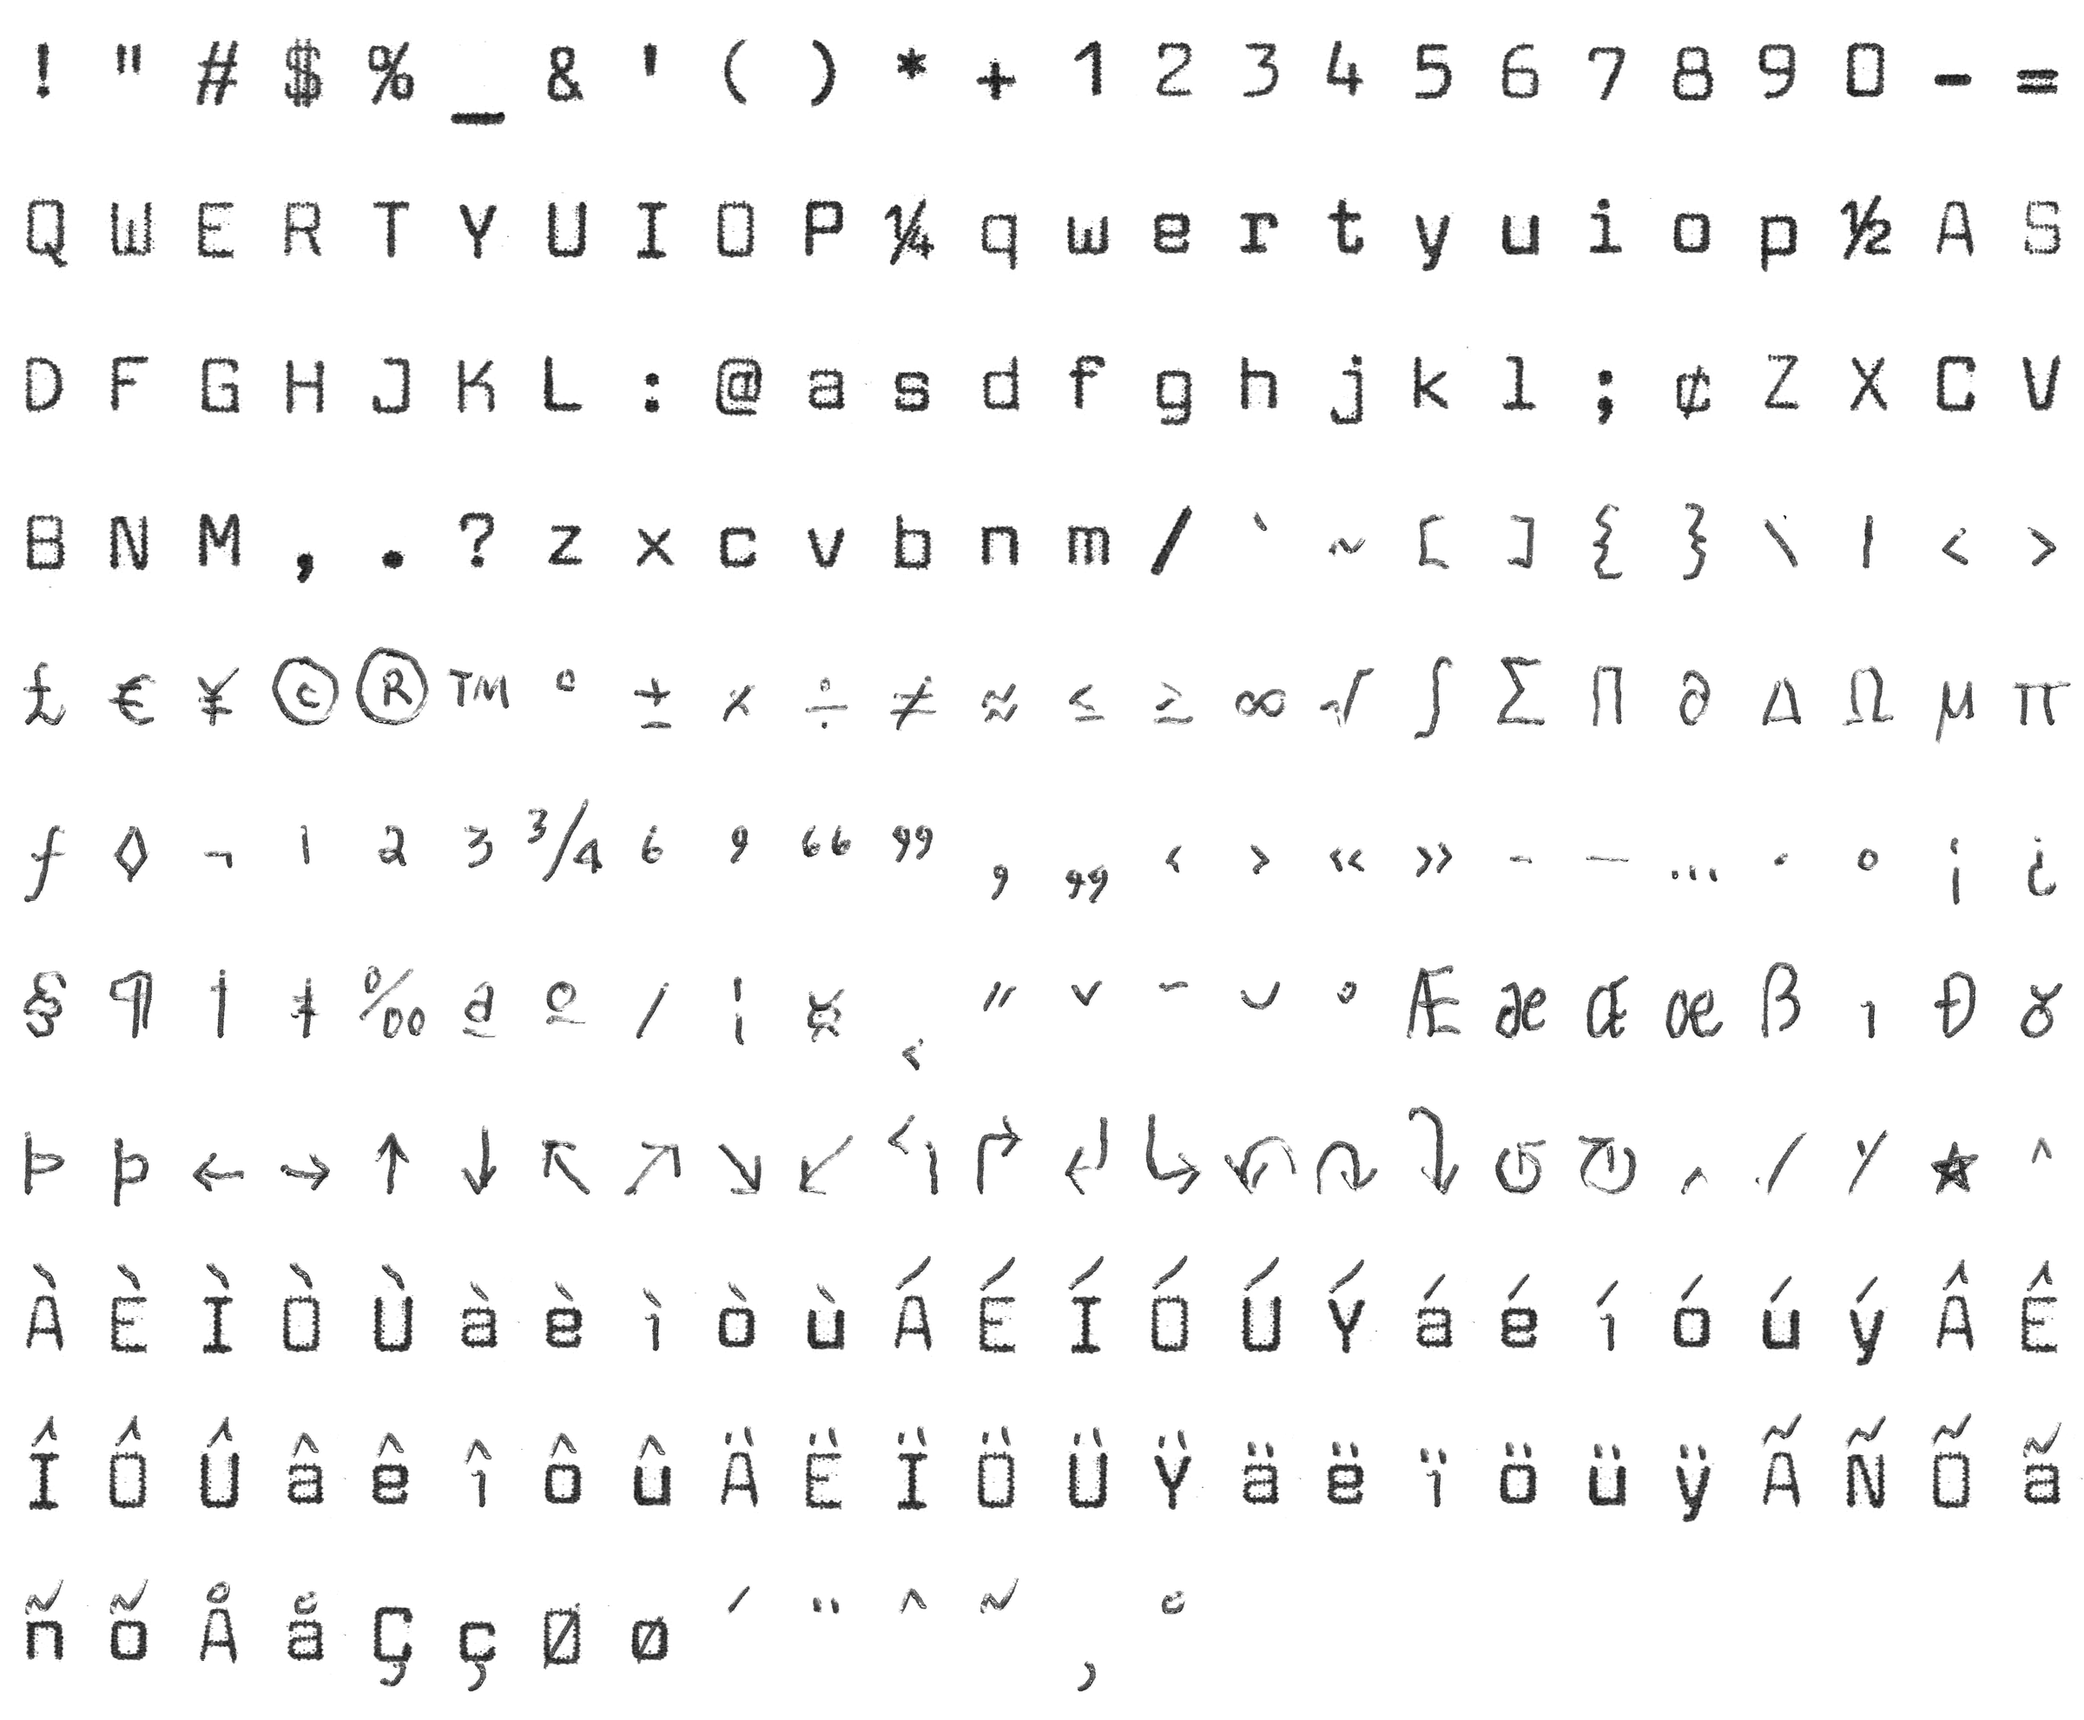
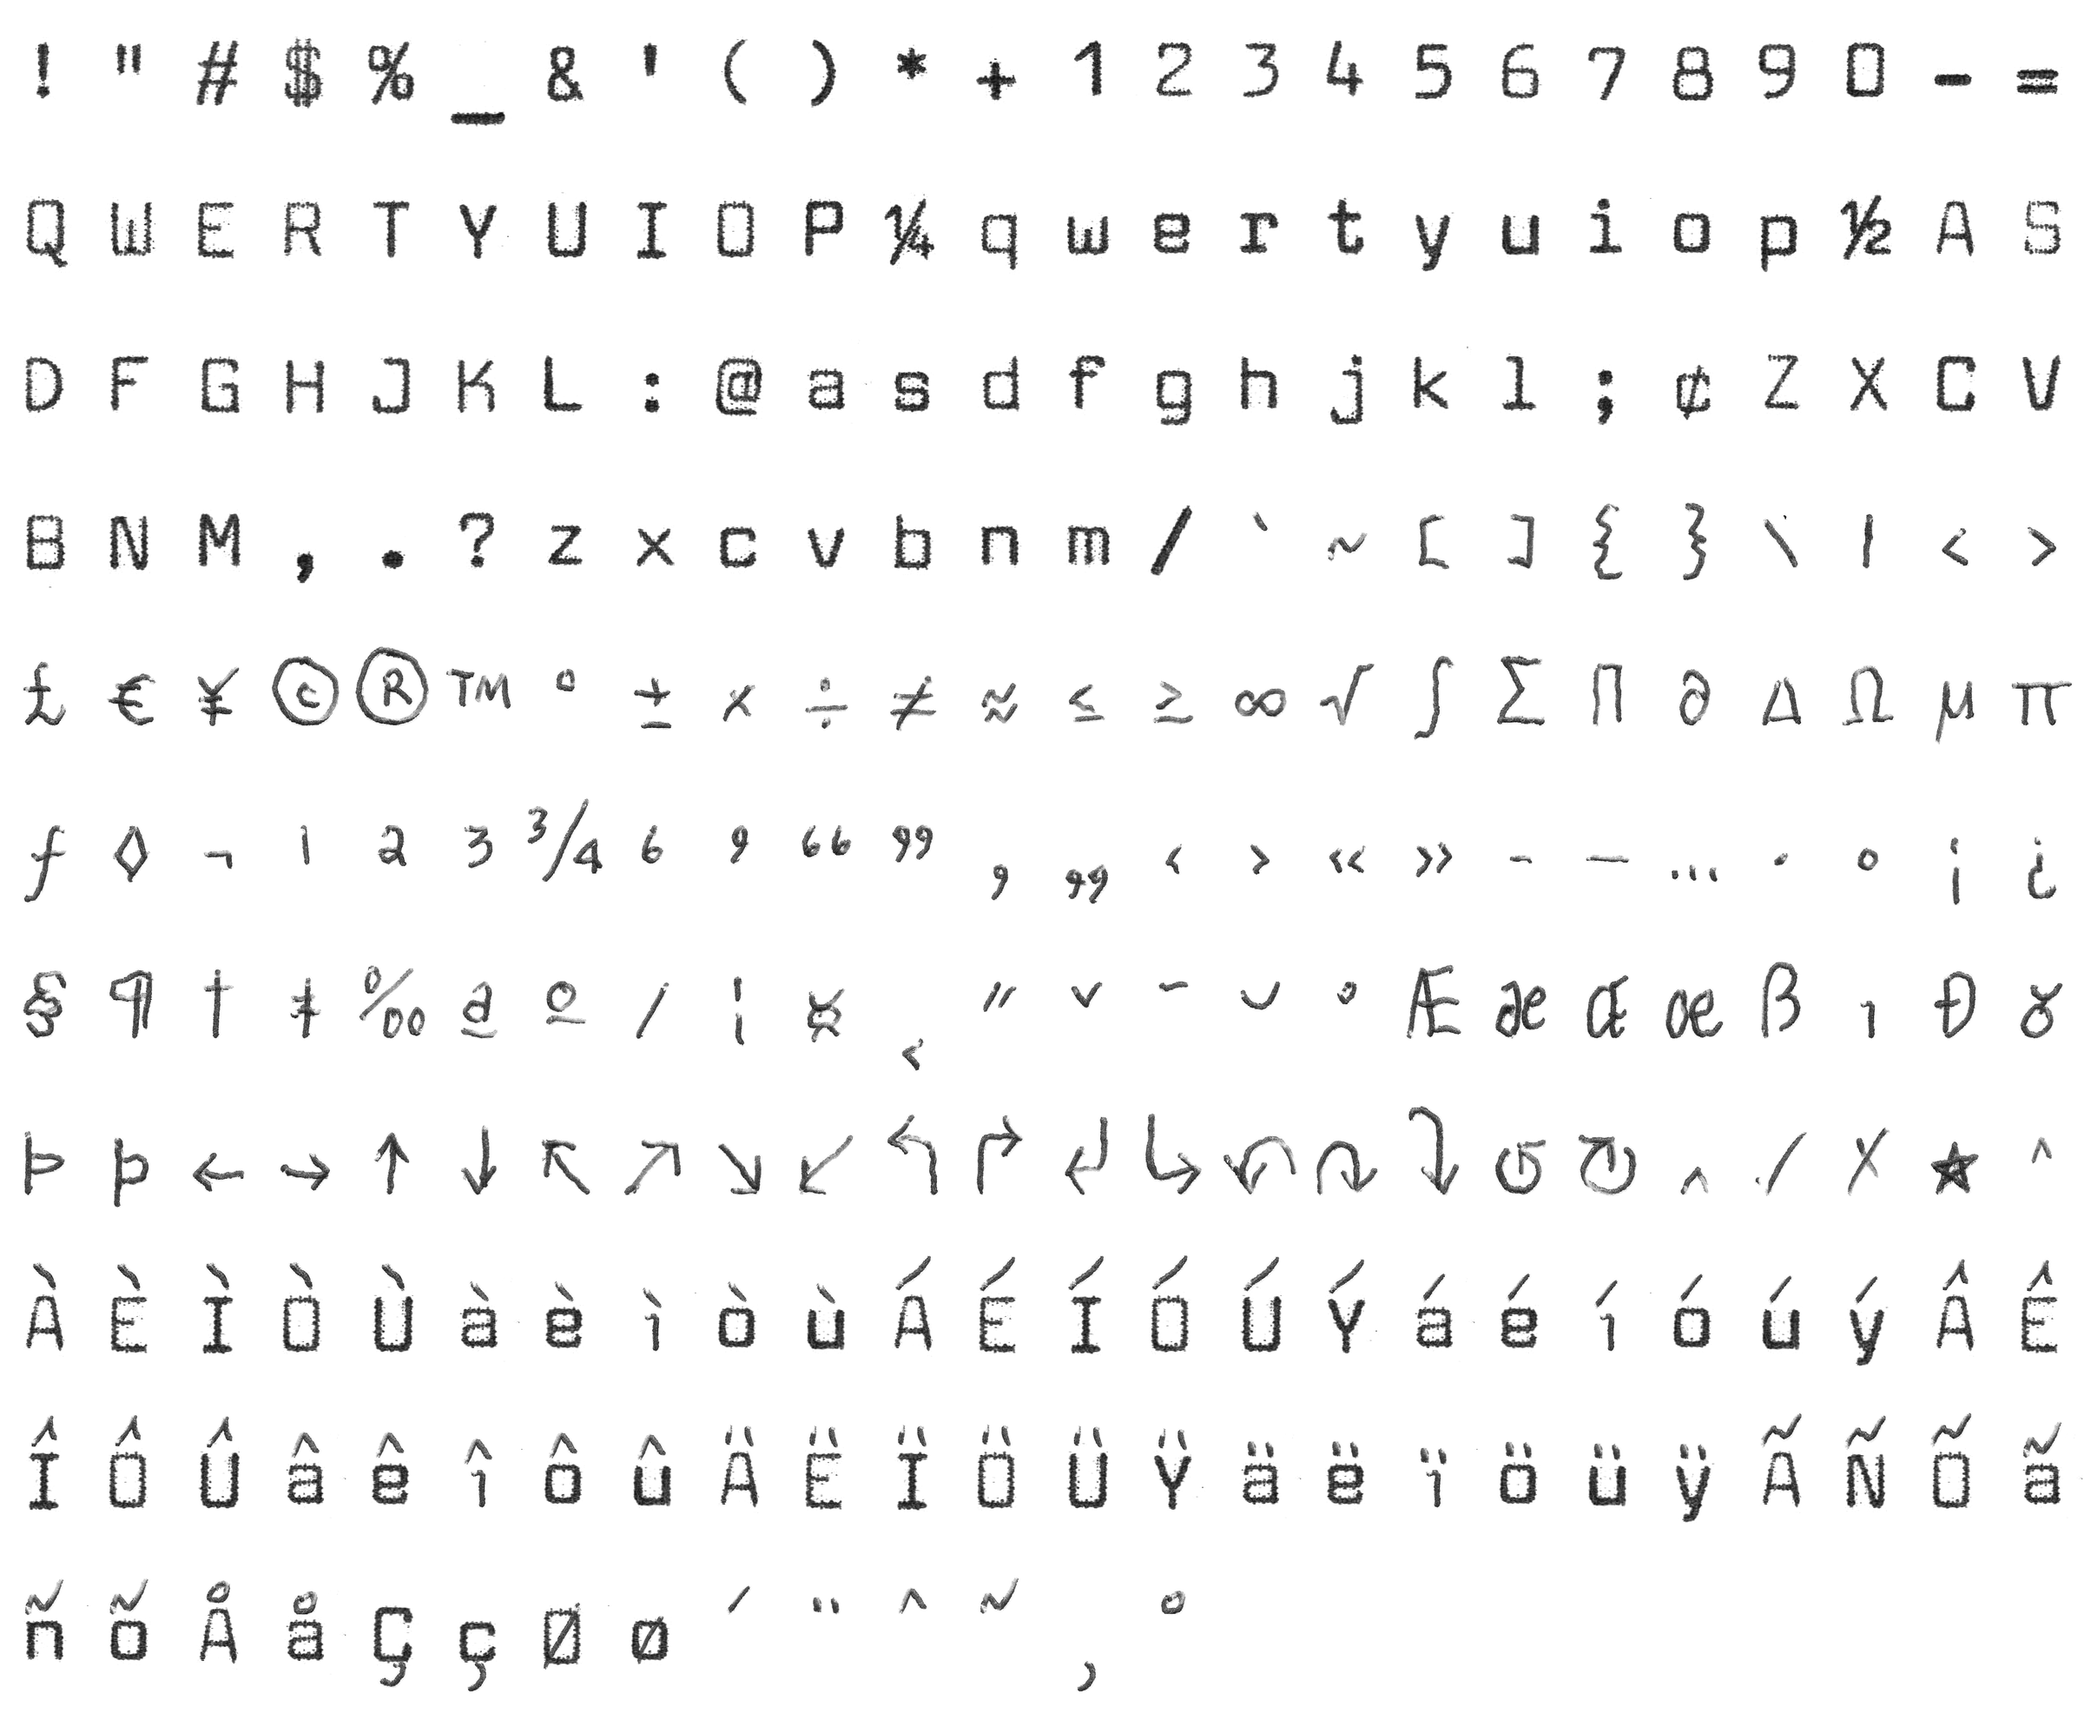
Keep the light gel pen's blue-black ink
The light weight was drawn with a gel pen whose black scans a little blue
in places, and cleaning off the blue and green ticks took those parts of
its strokes with them: about a tenth of the light ink, and as much as half
of some glyphs (✗ printed as a slash, † lost its crossbar). Ticks are only
printed at the sides of each blank, and paler than any pen, so that's the
only place they're looked for now.

Claude-Session: https://claude.ai/code/session_01UAck9h7yeA6utHax9aEA1s

diff --git a/docs/build-glyphs.py b/docs/build-glyphs.py
@@ -133,12 +133,19 @@ def components(mask):
         found.append((np.array(ys), np.array(xs)))
     return found
 
+def ticks(rgb):
+    """Where the ticks printed either side of a blank are: pale blue or green, at its sides. Only the sides, since some
+    pens' black (the light gel pen's) scans a little blue, and the middle of a blank is all pen."""
+    r, g, b = rgb[..., 0], rgb[..., 1], rgb[..., 2]
+    sides = np.zeros(rgb.shape[1], bool)
+    sides[:round(rgb.shape[1] * 0.2)] = sides[-round(rgb.shape[1] * 0.2):] = True
+    return ((g - r > 18) | (b - r > 18)) & (r > 110) & sides
+
 def ink(img):
     """How much ink is at each pixel (0 for paper), ignoring the blue and green ticks printed on the sheet."""
     rgb = np.asarray(img, dtype=np.float32)
-    r, g, b = rgb[..., 0], rgb[..., 1], rgb[..., 2]
     amount = 255 - rgb.min(2)
-    amount[(g - r > 18) | (b - r > 18)] = 0
+    amount[ticks(rgb)] = 0
     return amount
 
 def drawn(img, red=False, threshold=70, smallest=40):
@@ -162,8 +169,7 @@ def drawn(img, red=False, threshold=70, smallest=40):
     grown = keep.copy()
     for _ in range(3):
         grown[1:] |= grown[:-1]; grown[:-1] |= grown[1:]; grown[:, 1:] |= grown[:, :-1]; grown[:, :-1] |= grown[:, 1:]
-    r, g, b = rgb[..., 0], rgb[..., 1], rgb[..., 2]
-    grown &= ~((g - r > 18) | (b - r > 18))
+    grown &= ~ticks(rgb)
     clean = np.where(grown[..., None], rgb, 255).astype(np.uint8)
     ys, xs = np.nonzero(keep)
     return clean, (xs.min(), ys.min(), xs.max() + 1, ys.max() + 1)
